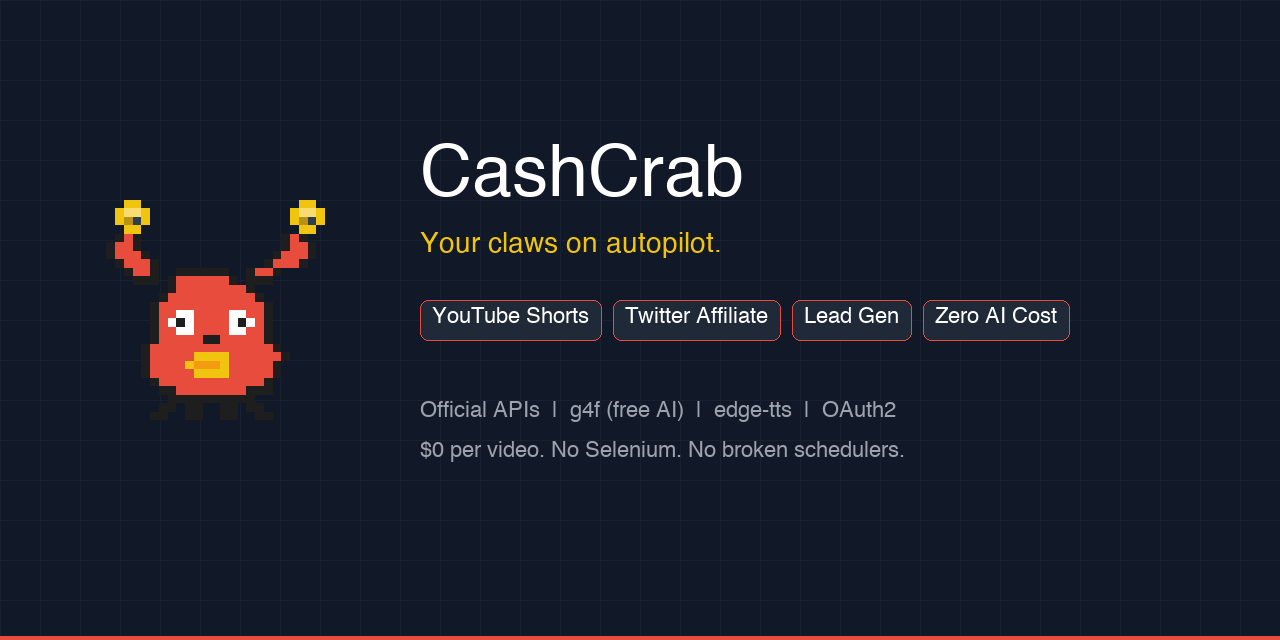
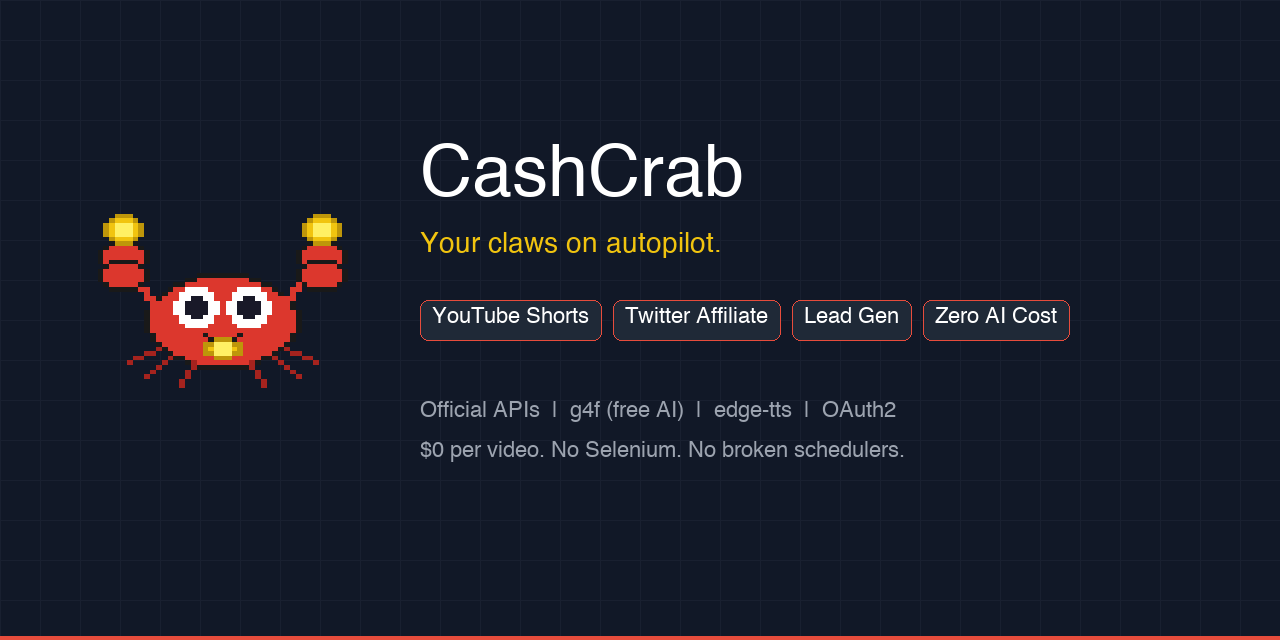
redesign mascot: clean pixel art crab with coins
Round red body, big cute eyes, gold coins in raised claws,
belly coin, clean dark red legs. No downscale artifacts.

Changed region(s): [[0.0625, 0.3125, 0.2812, 0.625]]

diff --git a/assets/generate_mascot.py b/assets/generate_mascot.py
@@ -3,78 +3,92 @@
 
 from PIL import Image, ImageDraw
 
-SCALE = 16
+SIZE = 48
+SCALE = 12
+FINAL = SIZE * SCALE
 
-C = {
-    ".": None,
-    "R": (231, 76, 60),
-    "D": (192, 57, 43),
-    "O": (230, 126, 34),
-    "G": (241, 196, 15),
-    "Y": (247, 220, 111),
-    "K": (30, 30, 30),
-    "W": (255, 255, 255),
-    "E": (200, 200, 210),
-    "P": (185, 145, 20),
-    "S": (44, 62, 80),
-    "M": (243, 156, 18),
-    "B": (169, 50, 38),
-}
-
-# 34 wide x 24 tall
-# Symmetric around column 17
-GRID = [
-    ".....GG..................GG.....",  # 0  left coin   right coin
-    "....GYYG................GYYG...",  # 1
-    "....GPSG................GPSG...",  # 2  $ on coins
-    ".....GG..................GG....",  # 3
-    "....KRK................KRK.....",  # 4  claw tips
-    "...KRRK................KRRK....",  # 5
-    "...KRRRK..............KRRRK....",  # 6
-    "....KRRRK............KRRRK.....",  # 7
-    ".....KRRK..KKKKKK..KRRK.......",  # 8  arms reach body
-    "......KKK.KRRRRRRK.KKK........",  # 9
-    "..........KRRRRRRRRK...........",  # 10
-    ".........KRRRRRRRRRRK..........",  # 11
-    "........KRRRRRRRRRRRRK.........",  # 12
-    "........KRRWWRRRRWWRRK.........",  # 13 eyes
-    "........KRWKWRRRRWKWRK.........",  # 14 pupils
-    "........KRRWWRRRRWWRRK.........",  # 15
-    "........KRRRRRKKRRRRRK.........",  # 16 smile
-    ".......KRRRRRRRRRRRRRRK........",  # 17
-    ".......KRRRRRGGGGRRRRRRK.......",  # 18 gold belly
-    ".......KRRRRGMMMGRRRRRK........",  # 19
-    ".......KRRRRRGGGGRRRRRK........",  # 20
-    "........KRRRRRRRRRRRRK.........",  # 21
-    ".........KKRRRRRRRRKKK.........",  # 22
-    "..........KKKKKKKKKK...........",  # 23
-    ".........KK.KK..KK.KK.........",  # 24
-    "........KK..KK..KK..KK........",  # 25
-]
+RED = (220, 55, 45)
+DARK_RED = (165, 35, 30)
+LIGHT_RED = (245, 115, 95)
+GOLD = (241, 196, 15)
+YELLOW = (255, 240, 100)
+DARK_GOLD = (190, 150, 10)
+BLACK = (25, 25, 25)
+WHITE = (255, 255, 255)
+PUPIL = (25, 25, 40)
 
 
-def generate(output_path: str = "assets/cashcrab.png", scale: int = SCALE):
-    h = len(GRID)
-    w = max(len(row) for row in GRID)
+def draw_crab():
+    img = Image.new("RGBA", (SIZE, SIZE), (0, 0, 0, 0))
+    d = ImageDraw.Draw(img)
 
-    img = Image.new("RGBA", (w * scale, h * scale), (0, 0, 0, 0))
-    draw = ImageDraw.Draw(img)
+    cx, cy = 24, 26
 
-    for y, row in enumerate(GRID):
-        for x, ch in enumerate(row):
-            color = C.get(ch)
-            if color:
-                draw.rectangle(
-                    [x * scale, y * scale, (x + 1) * scale - 1, (y + 1) * scale - 1],
-                    fill=(*color, 255),
-                )
+    # === BODY (clean, no highlight) ===
+    d.ellipse([cx-13, cy-10, cx+13, cy+10], fill=RED, outline=BLACK)
 
-    img.save(output_path)
-    print(f"Mascot saved: {output_path} ({img.width}x{img.height})")
+    # === LEFT ARM + CLAW ===
+    d.line([(cx-11, cy-3), (cx-15, cy-11)], fill=RED, width=2)
+    # Pincer top
+    d.ellipse([cx-21, cy-17, cx-13, cy-11], fill=RED, outline=BLACK)
+    # Pincer bottom
+    d.ellipse([cx-21, cy-13, cx-13, cy-7], fill=RED, outline=BLACK)
+    # Coin
+    d.ellipse([cx-20, cy-23, cx-14, cy-17], fill=GOLD, outline=DARK_GOLD)
+    d.rectangle([cx-18, cy-21, cx-16, cy-19], fill=YELLOW)
 
-    small = img.resize((128, 128), Image.NEAREST)
+    # === RIGHT ARM + CLAW ===
+    d.line([(cx+11, cy-3), (cx+15, cy-11)], fill=RED, width=2)
+    # Pincer top
+    d.ellipse([cx+13, cy-17, cx+21, cy-11], fill=RED, outline=BLACK)
+    # Pincer bottom
+    d.ellipse([cx+13, cy-13, cx+21, cy-7], fill=RED, outline=BLACK)
+    # Coin
+    d.ellipse([cx+14, cy-23, cx+20, cy-17], fill=GOLD, outline=DARK_GOLD)
+    d.rectangle([cx+16, cy-21, cx+18, cy-19], fill=YELLOW)
+
+    # === EYES (closer together, rounder) ===
+    # Left eye
+    d.ellipse([cx-8, cy-7, cx-1, cy+1], fill=WHITE)
+    d.ellipse([cx-6, cy-5, cx-3, cy-1], fill=PUPIL)
+    d.point([cx-7, cy-6], fill=WHITE)  # shine
+
+    # Right eye
+    d.ellipse([cx+1, cy-7, cx+8, cy+1], fill=WHITE)
+    d.ellipse([cx+3, cy-5, cx+6, cy-1], fill=PUPIL)
+    d.point([cx+2, cy-6], fill=WHITE)
+
+    # === SMILE ===
+    d.line([(cx-3, cy+3), (cx-2, cy+4)], fill=BLACK)
+    d.line([(cx-1, cy+4), (cx+1, cy+4)], fill=BLACK)
+    d.line([(cx+2, cy+4), (cx+3, cy+3)], fill=BLACK)
+
+    # === BELLY COIN ===
+    d.ellipse([cx-3, cy+4, cx+3, cy+8], fill=GOLD, outline=DARK_GOLD)
+    d.rectangle([cx-1, cy+5, cx+1, cy+7], fill=YELLOW)
+
+    # === LEGS (3 pairs, solid dark red) ===
+    # Inner pair (straight down)
+    d.line([(cx-5, cy+9), (cx-7, cy+14)], fill=DARK_RED)
+    d.line([(cx+5, cy+9), (cx+7, cy+14)], fill=DARK_RED)
+    # Middle pair (angled)
+    d.line([(cx-9, cy+8), (cx-13, cy+12)], fill=DARK_RED)
+    d.line([(cx+9, cy+8), (cx+13, cy+12)], fill=DARK_RED)
+    # Outer pair (wide angle)
+    d.line([(cx-11, cy+6), (cx-16, cy+9)], fill=DARK_RED)
+    d.line([(cx+11, cy+6), (cx+16, cy+9)], fill=DARK_RED)
+
+    return img
+
+
+def generate(output_path: str = "assets/cashcrab.png"):
+    pixel_art = draw_crab()
+    final = pixel_art.resize((FINAL, FINAL), Image.NEAREST)
+    final.save(output_path)
+    print(f"Mascot: {output_path} ({FINAL}x{FINAL})")
+
+    small = pixel_art.resize((128, 128), Image.NEAREST)
     small.save(output_path.replace(".png", "_small.png"))
-
     return output_path
 
 
